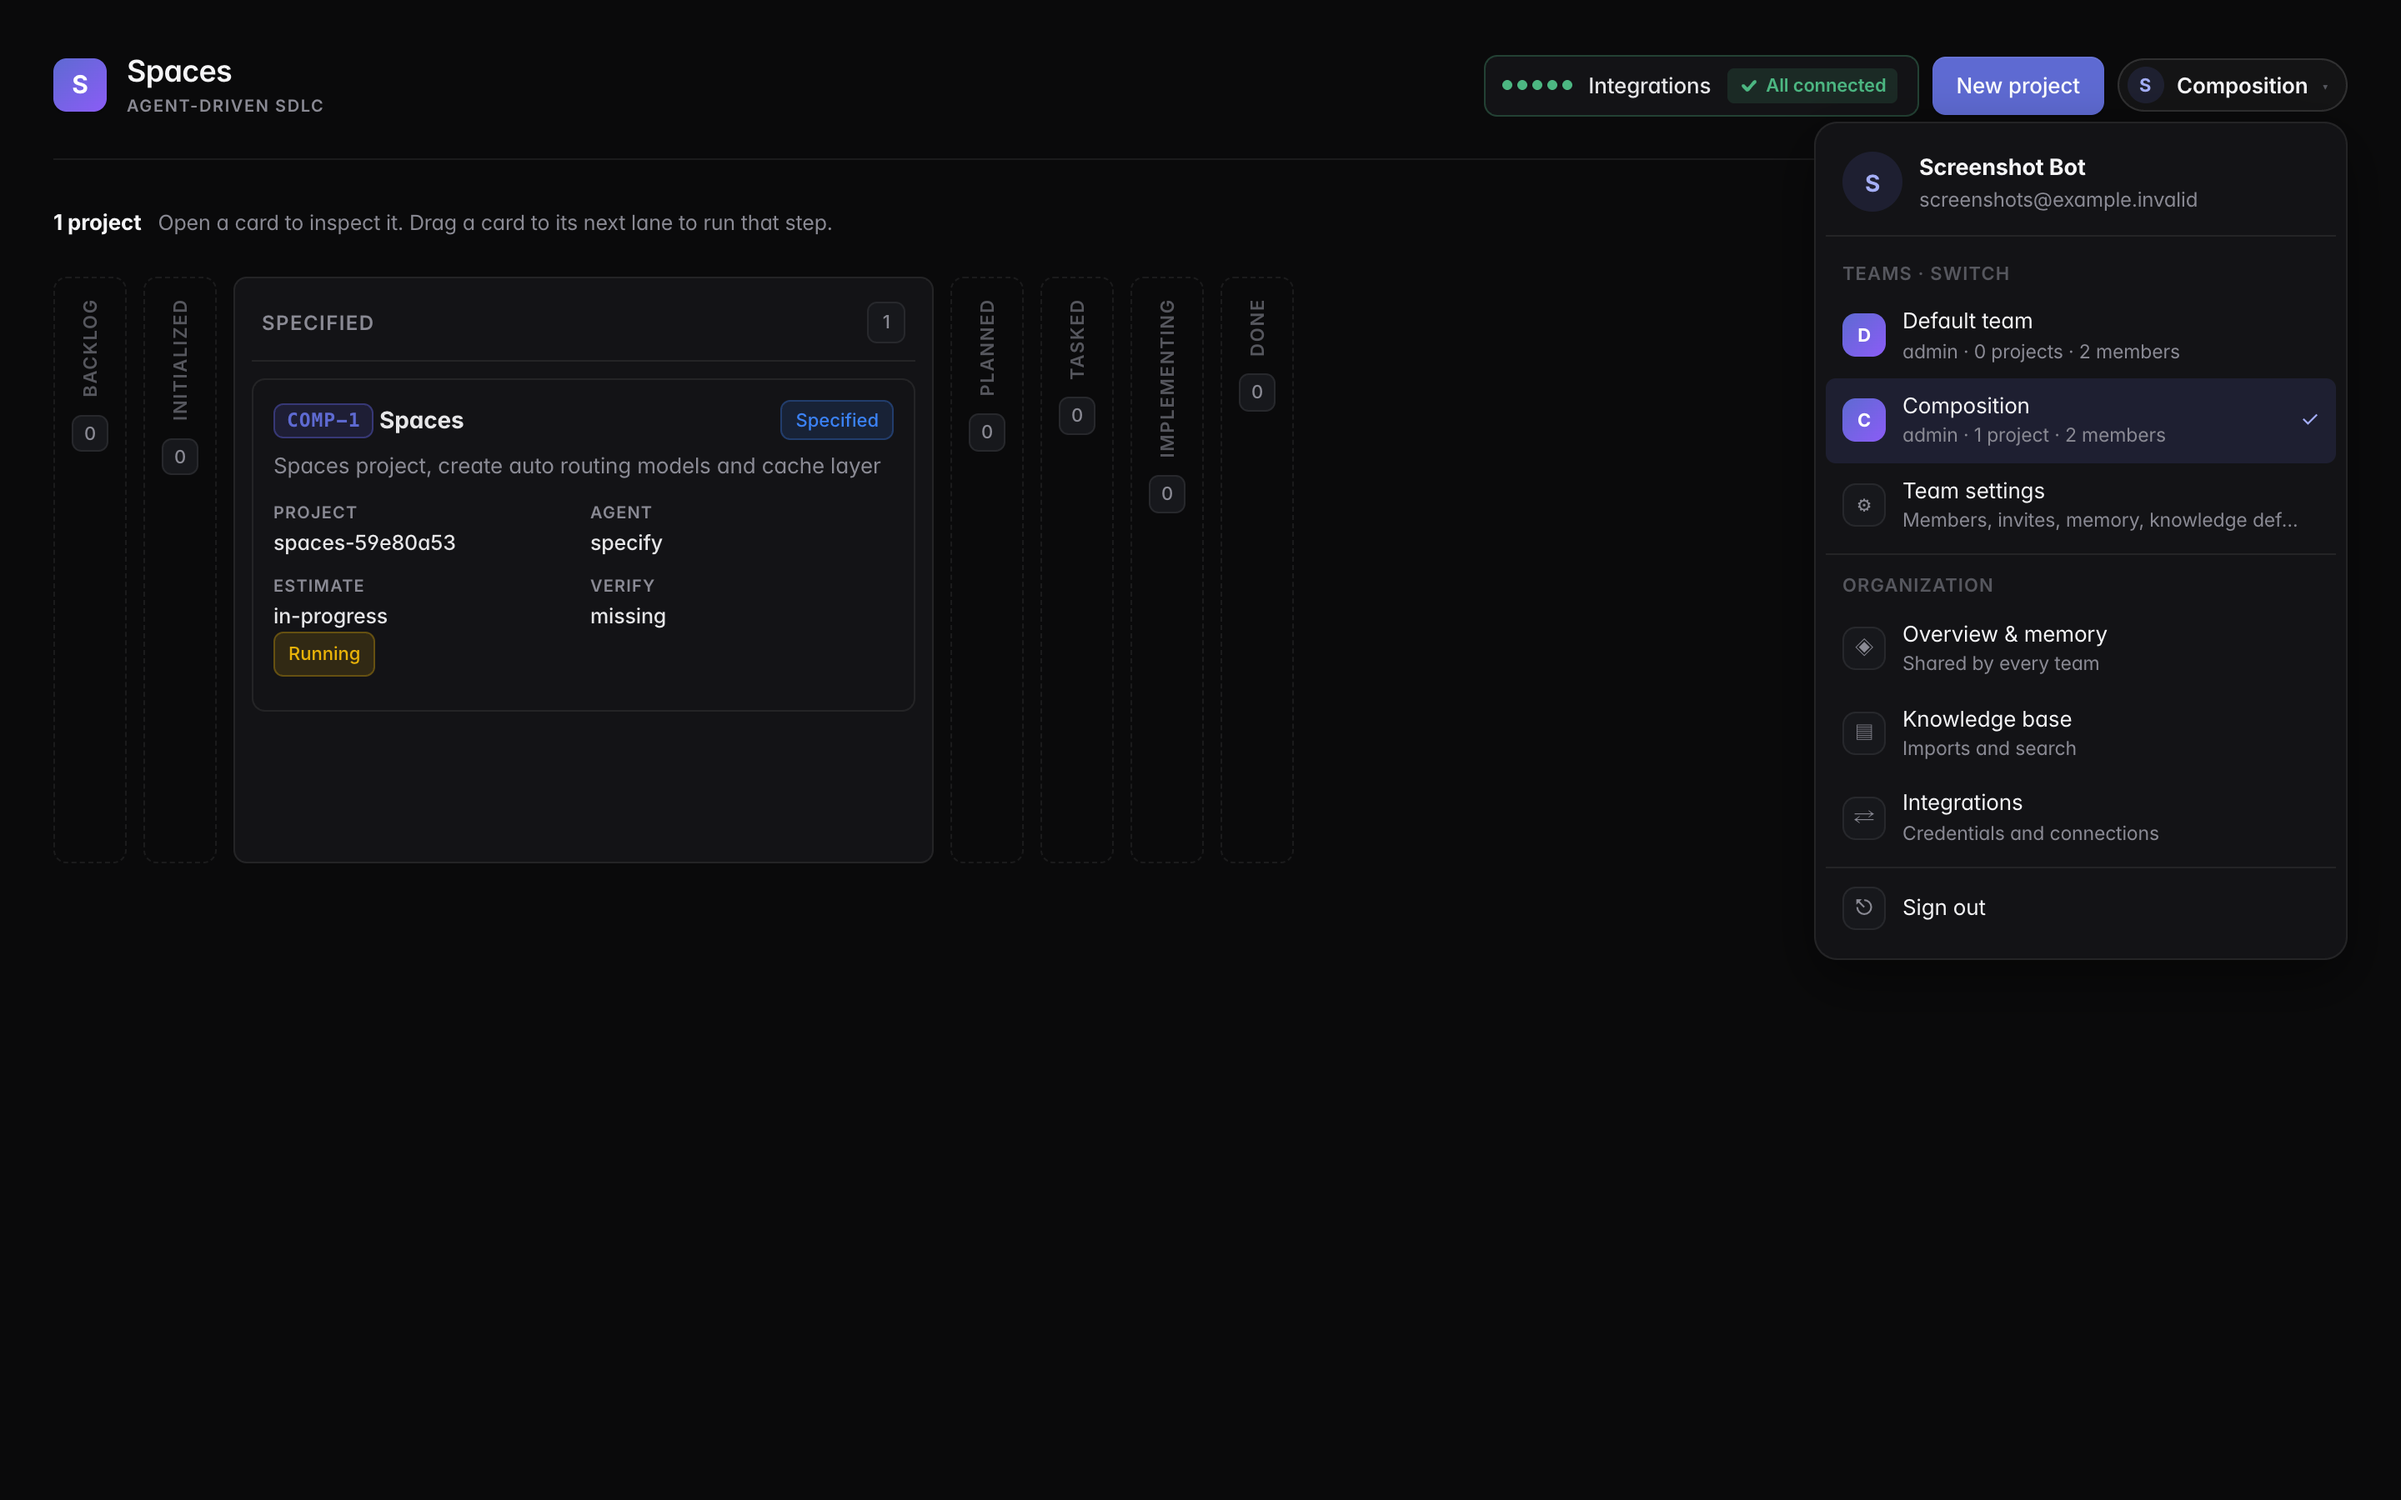
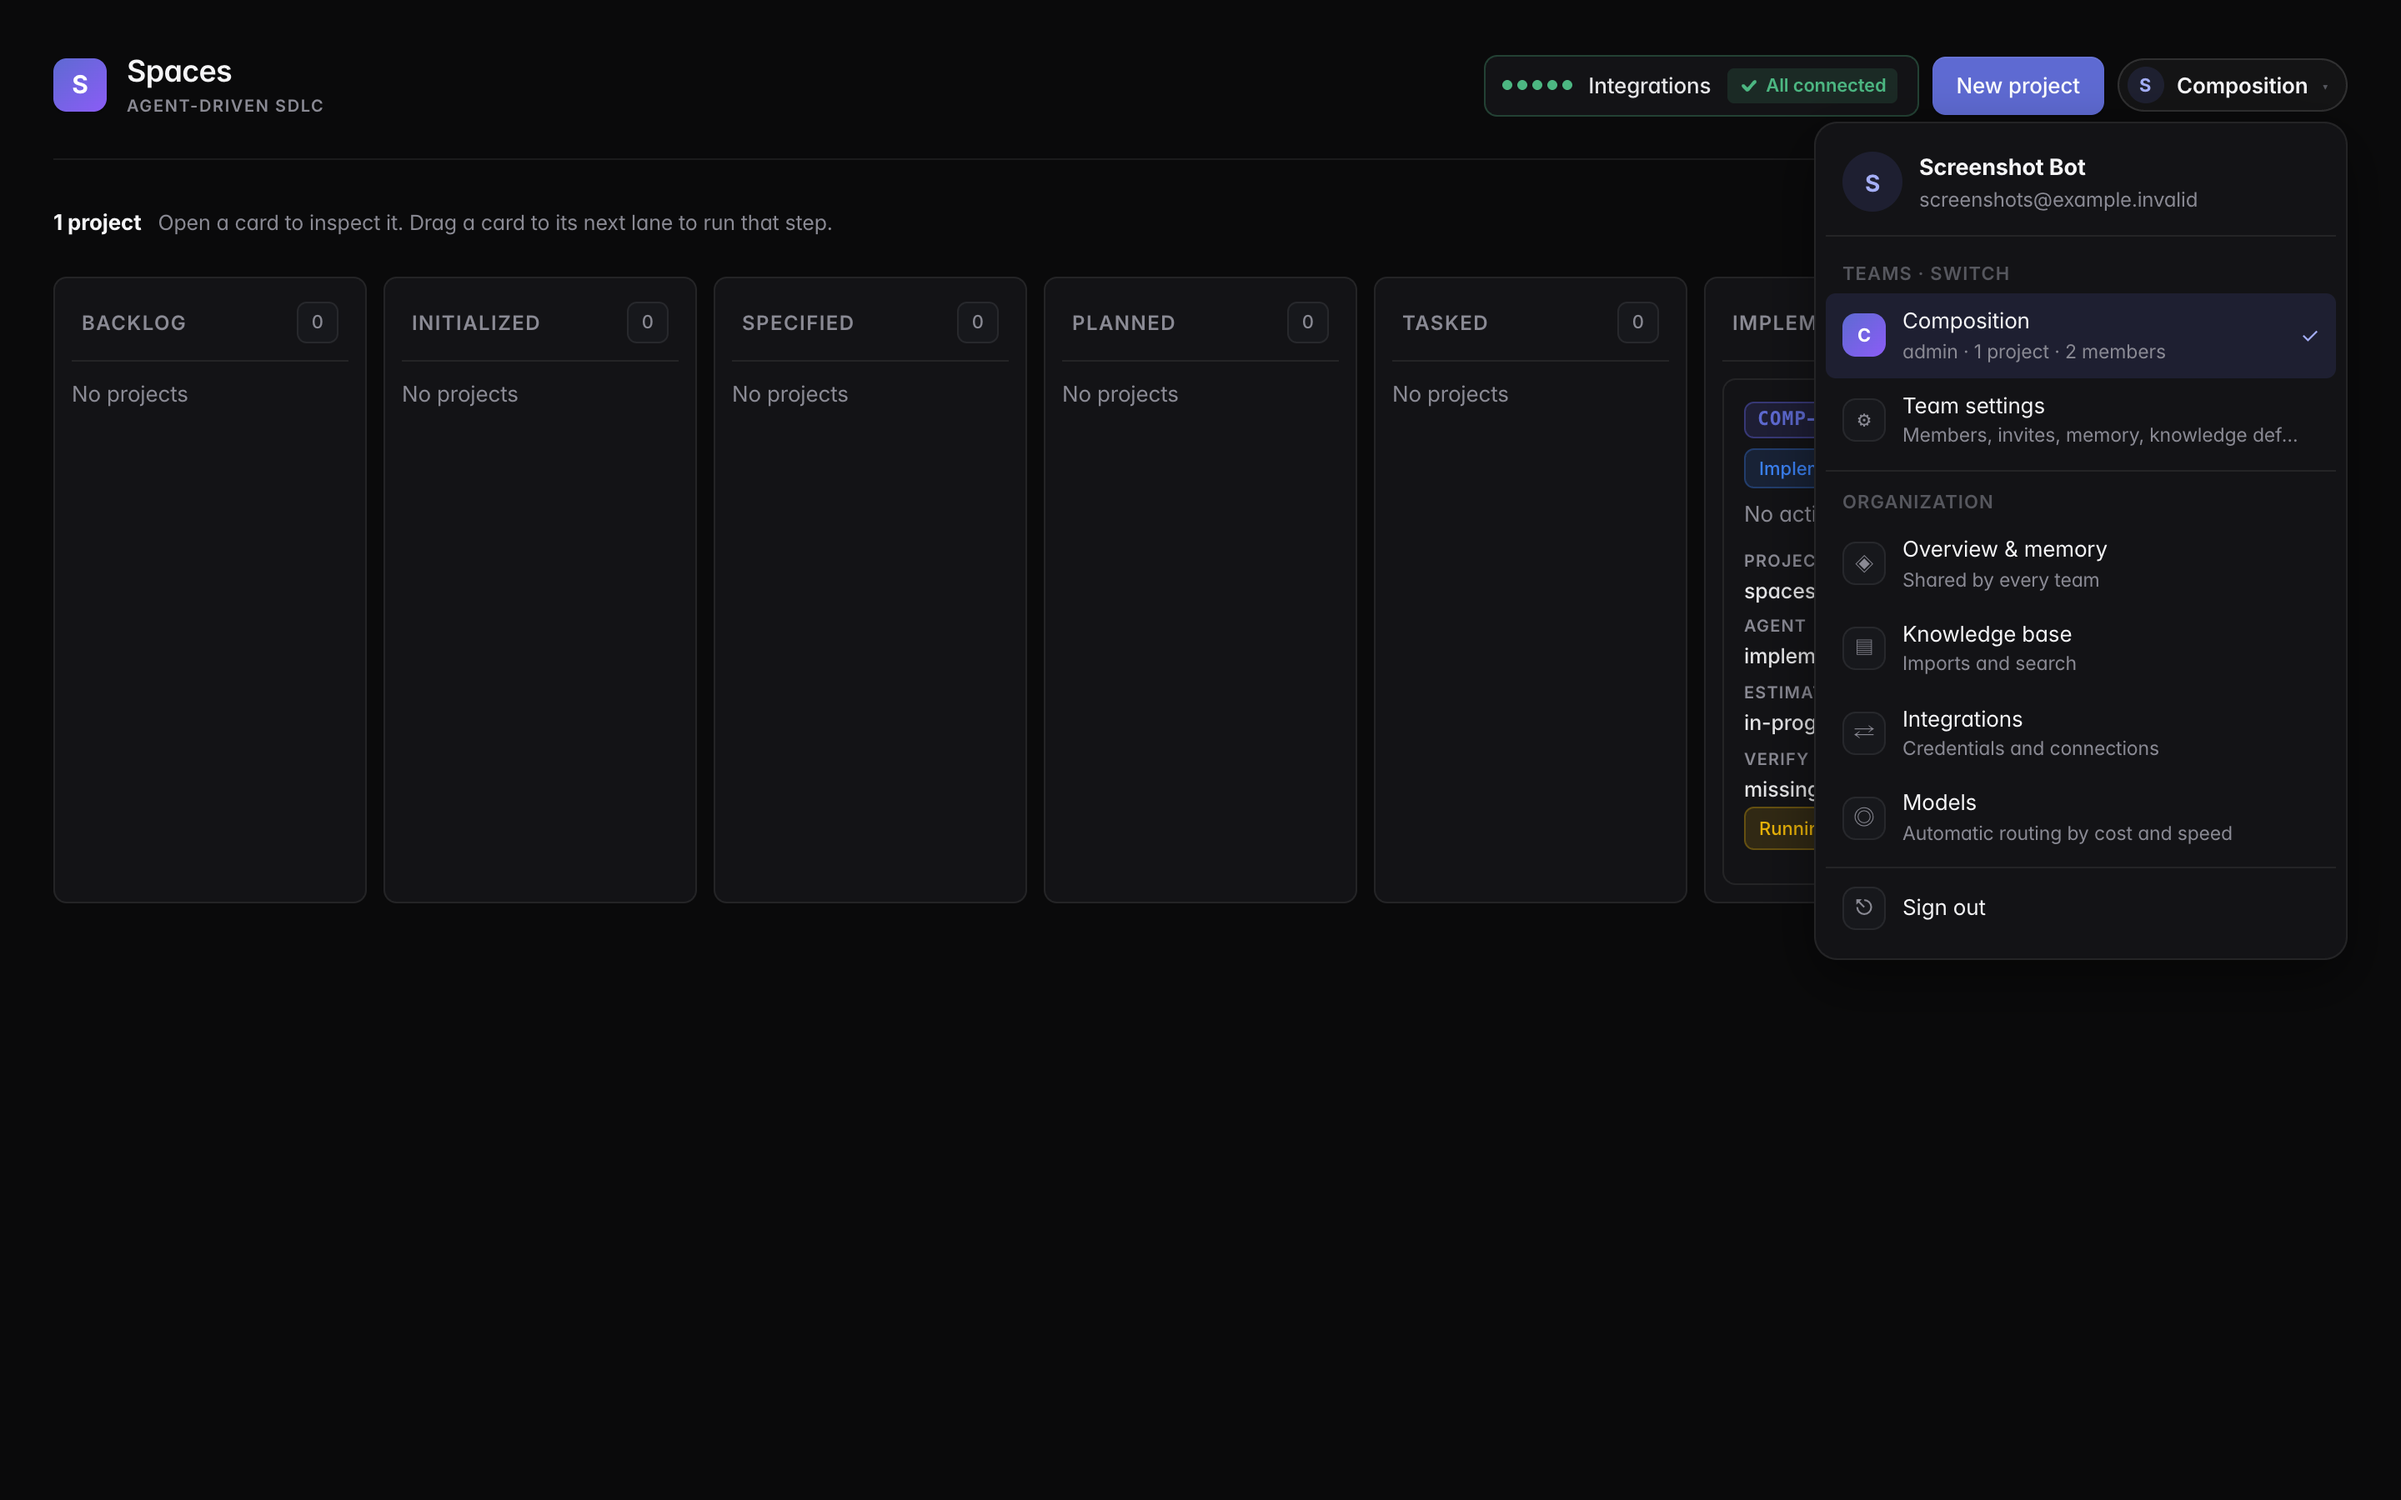
docs: refresh screenshots and README / docs landing for the current UI
New captures of the board, project page, agent output sheet, model routing
with provider keys, knowledge base, team page, integrations and account menu;
README screenshot section and docs index describe routing, provider keys,
the research stage and repo-local changes.

diff --git a/README.md b/README.md
@@ -25,33 +25,51 @@ Built on the [AIDLC framework](https://github.com/awslabs/aidlc-workflows)
 
 ### The board
 
-Every project is a card with a readable code (`COMP-1`) on a kanban board that
-derives its lane (Backlog → Initialized → Specified → Planned → Tasked →
-Implementing → Done) from the artifacts the project has produced. The
-**Integrations** chip shows connection status; the account menu switches
-teams and opens team and organization pages.
+Every project is a card with a readable code (`COMP-1`) on a kanban board whose
+seven lanes always span the full width and derive from the artifacts each
+project has produced. The **Integrations** chip shows connection status; the
+account menu switches teams and opens the team and organization pages.
 
-![Spaces board with a project in flight](docs/screenshots/board.png)
+![Spaces board](docs/screenshots/board.png)
 
-### Project page with the agent output dock
+### Project page
 
-Each project has its own page at `/spaces/<code>`. The live agent output is
-docked at the bottom: stage progress, the streamed log, approval and
-clarification prompts, and **Pause**, **Resume** and **Cancel** for the run.
-Tabs cover specs, tests, implementation, QA, the assistant, context, memory
-and lessons.
+Each project has its own page at `/spaces/<code>`: a hero with lane, run,
+verification and repository chips, pill tabs, and an overview that opens with
+stat tiles, the summary and repositories, the orchestrator and artifacts, and
+the pause / archive / delete controls at the bottom. The live agent output is
+a slim pill anchored at the bottom.
 
-![Project page with a running pipeline and the docked agent output](docs/screenshots/project-page.png)
+![Project page](docs/screenshots/project-page.png)
+
+### Agent output
+
+Open the pill and the agent output becomes a full-height sheet: stage
+progress, the streamed log with scroll-to-top / bottom and smart following,
+approval and clarification prompts that take the room when a human is
+needed, and **Pause**, **Resume**, **Cancel** and **Retry** for the run.
+
+![Agent output sheet](docs/screenshots/agent-output.png)
+
+### Models: automatic routing, keys in the app
+
+No model is named anywhere. Provider keys (Anthropic, OpenAI, OpenRouter) are
+entered here, stored encrypted and verified; for the provider in use the
+catalog is scored by cost and speed into small / medium / large tiers, tuned by
+a policy (cost / balanced / quality, provider order, premium models, pins).
+With OpenRouter, OpenRouter routes each request.
+
+![Model routing and provider keys](docs/screenshots/models.png)
 
 ### Organization knowledge base
 
 Import Confluence spaces, Jira projects, Linear teams, projects and
 initiatives, GitHub repository docs and issues, web pages and notes. Content
-is chunked and indexed in Postgres (full-text plus pgvector embeddings);
-agents search it with `org_knowledge_search` and every stage starts with the
-excerpts relevant to its project.
+is chunked and indexed in Postgres (full-text plus pgvector embeddings); agents
+search it with `org_knowledge_search`, the `research` stage loads it before
+specifying, and every stage starts with the excerpts relevant to its project.
 
-![Knowledge base with imported sources and the integration picker](docs/screenshots/knowledge-base.png)
+![Knowledge base](docs/screenshots/knowledge-base.png)
 
 ### Team page
 
@@ -67,7 +85,7 @@ encrypted; each provider card shows the callback URL and scopes to register
 and the connection state of the integrations it powers. Nothing lives in
 `.env`.
 
-![Integrations with credential cards](docs/screenshots/integrations.png)
+![Integrations](docs/screenshots/integrations.png)
 
 ### Generated artifacts, browsable in-app
 

diff --git a/docs/index.md b/docs/index.md
@@ -17,7 +17,9 @@ Built on the [AIDLC framework](https://github.com/awslabs/aidlc-workflows) and t
 
 ![The board](screenshots/board.png)
 
-![Project page with the docked agent output](screenshots/project-page.png)
+![Project page](screenshots/project-page.png)
+
+![Agent output sheet](screenshots/agent-output.png)
 
 ## What it does
 
@@ -51,10 +53,26 @@ Built on the [AIDLC framework](https://github.com/awslabs/aidlc-workflows) and t
 
 -   **Self-serve, organization-wide setup**
 
-    OAuth app credentials, memory, the knowledge base and teams are managed
-    on the organization page; each team has a page for members, invites,
-    memory and knowledge defaults. See
+    Provider keys, OAuth app credentials, model routing, memory, the knowledge
+    base and teams are managed on the organization page; each team has a page
+    for members, invites, memory and knowledge defaults. See
     [Organization, teams & access](concepts/organization-teams-and-access.md).
+
+-   **Automatic model routing**
+
+    No model is named anywhere: for the provider in use the catalog is scored
+    by cost and speed into small / medium / large tiers, tuned by an
+    organization policy; with OpenRouter, OpenRouter routes each request. See
+    [Configuration](reference/configuration.md#models).
+
+-   **Research before specify, changes committed with the code**
+
+    A `research` stage clones and learns the repositories a feature needs and
+    loads the knowledge base before anything is specified; each implementation
+    repository then carries `specs/<initiative-id>/` with its change, tasks and
+    delta spec on the same pull request. See
+    [Pipelines & stages](concepts/pipelines-and-stages.md) and
+    [Delivery](concepts/delivery.md).
 
 -   **Delivery, end to end**
 
